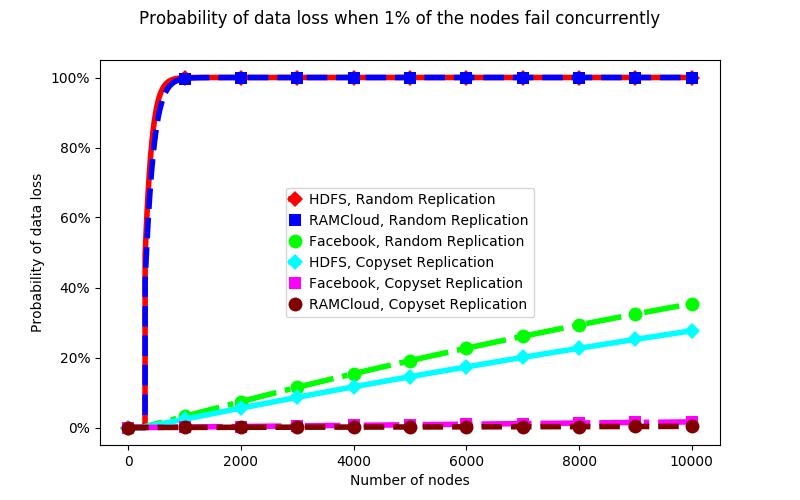
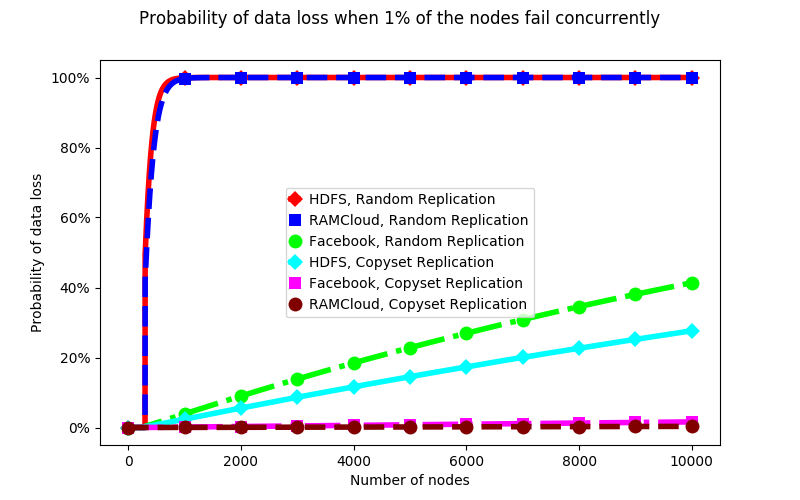
Updated Facebook Scatter Width

Changed region(s): [[0.2188, 0.54, 0.875, 0.84]]

diff --git a/Facebook.py b/Facebook.py
@@ -13,7 +13,7 @@ class FacebookRandomScheme(FacebookScheme):
       # compute the probability
       
       totalCopysets = scipy.misc.comb(numNodes, self.replicationFactor)
-      numCopysets = scipy.misc.comb(self.scatterWidth, self.replicationFactor - 1) * numNodes
+      numCopysets = scipy.misc.comb(self.scatterWidth + 1, self.replicationFactor - 1) * numNodes
 
       numFailedNodes = 0.01 * numNodes
       failedCombos = scipy.misc.comb(numFailedNodes, self.replicationFactor)
@@ -31,7 +31,7 @@ class FacebookCopysetScheme(FacebookScheme):
    def probabilityOfDataLoss(self, numNodes):
       # compute the probability
       return self.copysetReplicationDataLoss(
-         numNodes, self.chunksPerNode, self.replicationFactor, self.scatterWidth)
+         numNodes, self.chunksPerNode, self.replicationFactor, self.scatterWidth + 1)
 
    def plotInfo(self):
       return Replication.PlotInfo('Facebook, Copyset Replication',
